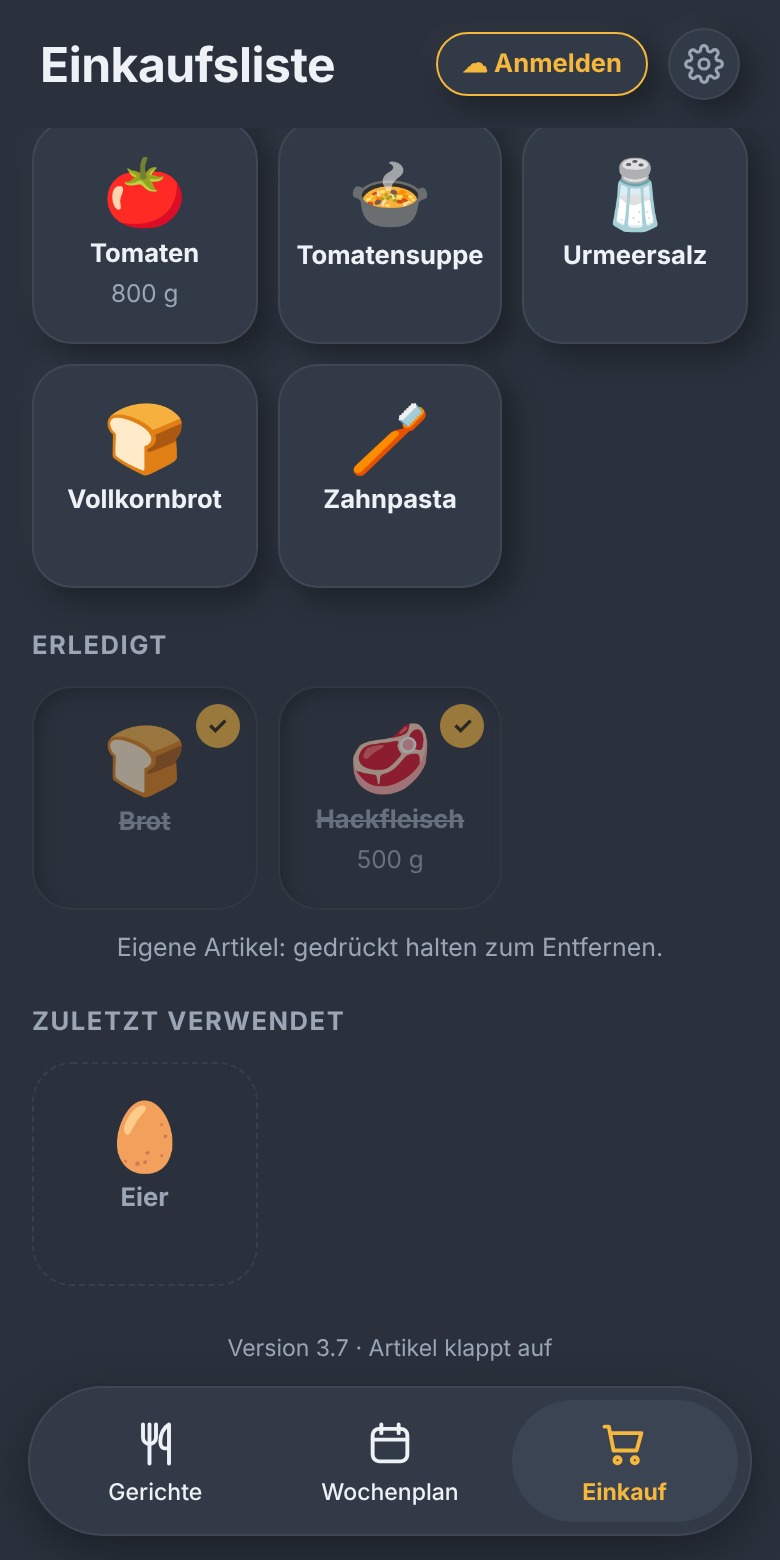
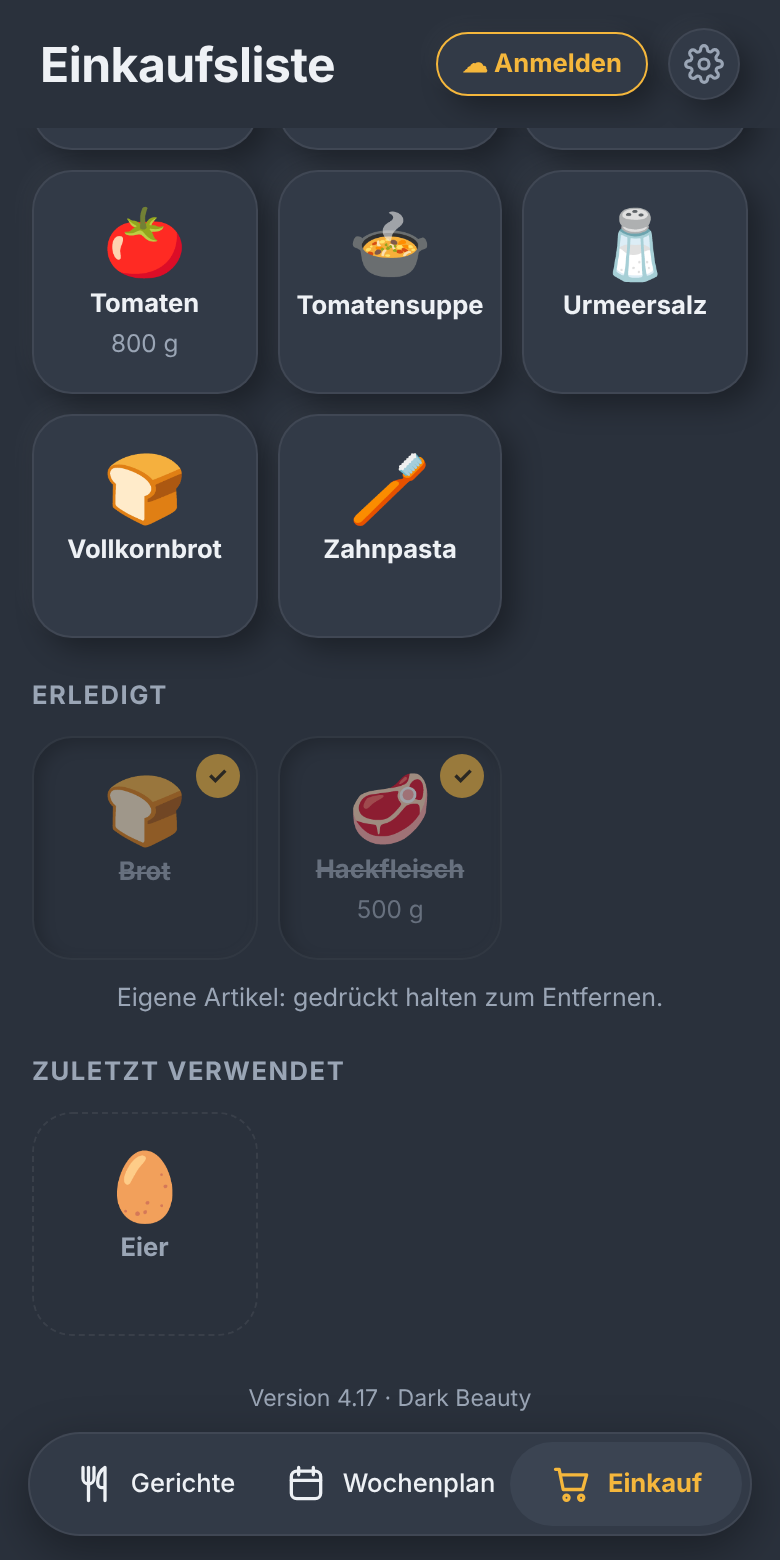
v4.17: Neu von ...: eigene Artikel der anderen Person seit dem letzten Blick auf die Liste markieren; Name in den Einstellungen
Claude-Session: https://claude.ai/code/session_01JENwE74wMgTKySNLWYJAoh

diff --git a/app.js b/app.js
@@ -372,6 +372,8 @@ function navigationEinrichten() {
         if (haupt) haupt.scrollTo({ top: 0, behavior: "smooth" });
         return;
       }
+      const vorher = document.querySelector("nav button.aktiv");
+      if (vorher && vorher.dataset.ziel === "einkauf") einkaufGesehenMerken();
       reiter.forEach(function (k) { k.classList.remove("aktiv"); });
       ansichten.forEach(function (a) { a.classList.remove("aktiv"); });
       knopf.classList.add("aktiv");
@@ -380,6 +382,7 @@ function navigationEinrichten() {
       modiBeenden();
       sportKnopfZeigen();
       if (knopf.dataset.ziel === "wochenplan") wochenplanZeichnen();
+      if (knopf.dataset.ziel === "einkauf") einkaufZeichnen();
     });
   });
 }
@@ -1937,6 +1940,35 @@ function mengeText(p) {
 }
 
 // Die eigenen Artikel einer Woche (ohne gelöschte), nach Name sortiert.
+// ---- "Neu von …": eigene Artikel, die die andere Person seit meinem letzten Blick auf die Liste ergänzt hat ----
+function eigeneId() { return sbSitzung && sbSitzung.user && sbSitzung.user.id ? sbSitzung.user.id : ""; }
+function eigenerName() {
+  try { const n = (localStorage.getItem("essensplan-name") || "").trim(); if (n) return n; } catch (e) {}
+  const mail = sbSitzung && sbSitzung.user && sbSitzung.user.email ? sbSitzung.user.email : "";
+  const teil = mail.split("@")[0].replace(/[._-]+/g, " ").trim().split(" ")[0] || "";
+  return teil ? teil.charAt(0).toUpperCase() + teil.slice(1) : "";
+}
+let einkaufGesehen = (function () {
+  try {
+    const w = Number(localStorage.getItem("essensplan-einkauf-gesehen"));
+    if (w > 0) return w;
+    localStorage.setItem("essensplan-einkauf-gesehen", String(Date.now()));
+  } catch (e) {}
+  return Date.now();
+})();
+function einkaufGesehenMerken() {
+  einkaufGesehen = Date.now();
+  try { localStorage.setItem("essensplan-einkauf-gesehen", String(einkaufGesehen)); } catch (e) {}
+}
+function extraIstNeu(e) {
+  const ich = eigeneId();
+  return !!(ich && e.vonId && e.vonId !== ich && e.erstellt > einkaufGesehen && !e.erledigt && !e.geloescht);
+}
+document.addEventListener("visibilitychange", function () {
+  const k = document.querySelector("nav button.aktiv");
+  if (document.visibilityState === "hidden" && k && k.dataset.ziel === "einkauf") einkaufGesehenMerken();
+});
+
 function extrasFuer(woche) {
   return Array.from(extras.values()).filter(function (e) { return e.woche === woche && !e.geloescht; })
     .sort(function (a, b) { return a.name.localeCompare(b.name, "de"); });
@@ -2078,15 +2110,18 @@ function extraEingabe(woche) {
 }
 
 function extraZeile(e) {
+  const neu = extraIstNeu(e);
   const kachel = el("button", {
-    class: "posten eigen" + (e.erledigt ? " erledigt" : ""), type: "button", role: "checkbox",
+    class: "posten eigen" + (e.erledigt ? " erledigt" : "") + (neu ? " neu" : ""), type: "button", role: "checkbox",
     "aria-checked": e.erledigt ? "true" : "false",
     onclick: function () { extraUmschalten(e.id); }
   },
     el("span", { class: "haken", text: e.erledigt ? "✓" : "" }),
     symbolKnoten(e.name),
     el("span", { class: "posten-name", text: e.name }),
-    el("span", { class: "posten-menge", text: e.menge || "" })
+    el("span", { class: "posten-menge", text: e.menge || "" }),
+    neu ? el("span", { class: "posten-neu", text: "NEU" }) : null,
+    neu && e.von ? el("span", { class: "posten-von", text: "von " + e.von }) : null
   );
   // Eigene Artikel entfernt man durch langes Drücken.
   langDruck(kachel, function () {
@@ -2144,12 +2179,14 @@ async function extraHinzufuegen(woche, nameText, mengeText2) {
     // Noch offen: Mengen zusammenzählen. Schon abgehakt (also gekauft): neu auf die Liste, mit der neuen Menge.
     const neueMenge = vorhanden.erledigt ? (menge || vorhanden.menge) : extraMengenSummieren(vorhanden.menge || "", menge);
     await extraSpeichern([Object.assign({}, vorhanden, {
-      erledigt: false, menge: neueMenge, aktualisiert: zeitNach(vorhanden), dirty: 1
+      erledigt: false, menge: neueMenge, erstellt: Date.now(), von: eigenerName(), vonId: eigeneId(),
+      aktualisiert: zeitNach(vorhanden), dirty: 1
     })]);
     return;
   }
   await extraSpeichern([{
     id: neueId(), woche: woche, name: name, menge: menge, erledigt: false, geloescht: false,
+    erstellt: Date.now(), von: eigenerName(), vonId: eigeneId(),
     aktualisiert: Date.now(), dirty: 1
   }]);
 }
@@ -2630,7 +2667,8 @@ const SYNC_TABELLEN = [
     schluesselServer: function (z) { return z.id; },
     zuServer: function (e) {
       return {
-        id: e.id, woche: e.woche, daten: { name: e.name, menge: e.menge || "" },
+        id: e.id, woche: e.woche,
+        daten: { name: e.name, menge: e.menge || "", erstellt: e.erstellt || 0, von: e.von || "", vonId: e.vonId || "" },
         erledigt: !!e.erledigt, geloescht: !!e.geloescht, aktualisiert: e.aktualisiert
       };
     },
@@ -2638,6 +2676,7 @@ const SYNC_TABELLEN = [
       const d = z.daten || {};
       return {
         id: z.id, woche: z.woche, name: d.name || "", menge: d.menge || "",
+        erstellt: d.erstellt || 0, von: d.von || "", vonId: d.vonId || "",
         erledigt: !!z.erledigt, geloescht: !!z.geloescht, aktualisiert: z.aktualisiert
       };
     }
@@ -3031,6 +3070,11 @@ function einstellungenOeffnen() {
   zeichnen();
   const pushBox = el("div");
   pushBereichZeichnen(pushBox);
+  const nameFeld = el("input", { type: "text", class: "eingabe", id: "mein-name", autocomplete: "off", placeholder: "z. B. Philip", "aria-label": "Dein Name" });
+  nameFeld.value = eigenerName();
+  nameFeld.addEventListener("input", function () {
+    try { localStorage.setItem("essensplan-name", nameFeld.value.trim()); } catch (e) {}
+  });
   blattZeigen({
     titel: "Einstellungen",
     links: { text: "Schließen", aktion: blattSchliessen },
@@ -3038,6 +3082,9 @@ function einstellungenOeffnen() {
       el("h3", { class: "abschnitt", text: "Farbvariante" }),
       liste,
       el("p", { class: "leise", style: "margin-top: 16px", text: "Die Wahl gilt nur für dieses Gerät." }),
+      el("h3", { class: "abschnitt", text: "Dein Name" }),
+      nameFeld,
+      el("p", { class: "leise", style: "margin-top: 8px", text: "Erscheint bei „neu von …“ in der Einkaufsliste, wenn du einen Artikel hinzufügst." }),
       el("h3", { class: "abschnitt", text: "Mitteilungen" }),
       pushBox
     ]

diff --git a/style.css b/style.css
@@ -895,3 +895,12 @@ main { touch-action: pan-y; }
   -webkit-backdrop-filter: blur(4px); backdrop-filter: blur(4px);
 }
 .zuletzt-info:active { background: rgba(14, 17, 22, 0.8); }
+
+/* ===== "Neu von …" bei eigenen Artikeln ===== */
+.posten.neu { border-color: var(--akzent); }
+.posten .posten-neu {
+  position: absolute; top: -7px; left: 50%; transform: translateX(-50%);
+  padding: 2px 8px; border-radius: 9px; font-size: 0.6rem; font-weight: 800; letter-spacing: 0.05em;
+  color: var(--auf-akzent); background: var(--akzent);
+}
+.posten .posten-von { flex: none; font-size: 0.68rem; font-weight: 600; color: var(--akzent); margin-top: -4px; }

diff --git a/sw.js b/sw.js
@@ -2,7 +2,7 @@
 // Strategie: Wenn das Netz da ist, wird immer die neueste Version geladen.
 // Ohne Netz startet die App aus dem Zwischenspeicher (offline).
 // Bei Änderungen an der Dateiliste unten die Versionsnummer erhöhen.
-const VERSION = "essensplan-v71";
+const VERSION = "essensplan-v72";
 const DATEIEN = [
   "./",
   "index.html",

diff --git a/index.html b/index.html
@@ -66,7 +66,7 @@
     <section id="einkauf" class="ansicht"></section>
   </main>
 
-  <footer class="version">Version 4.16 · Dark Beauty</footer>
+  <footer class="version">Version 4.17 · Dark Beauty</footer>
 
   <nav>
     <button class="aktiv" data-ziel="gerichte" data-titel="Gerichte">
